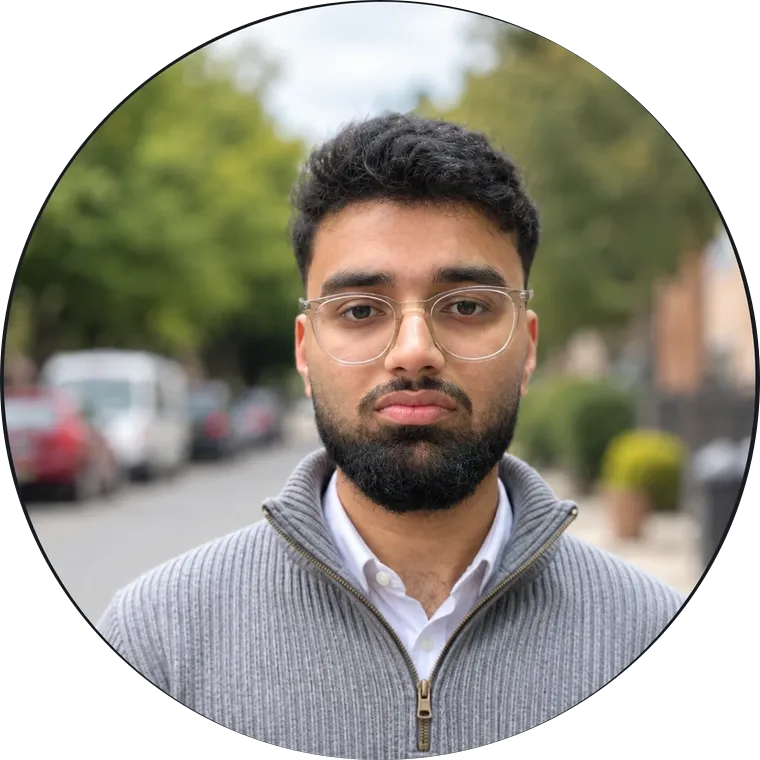
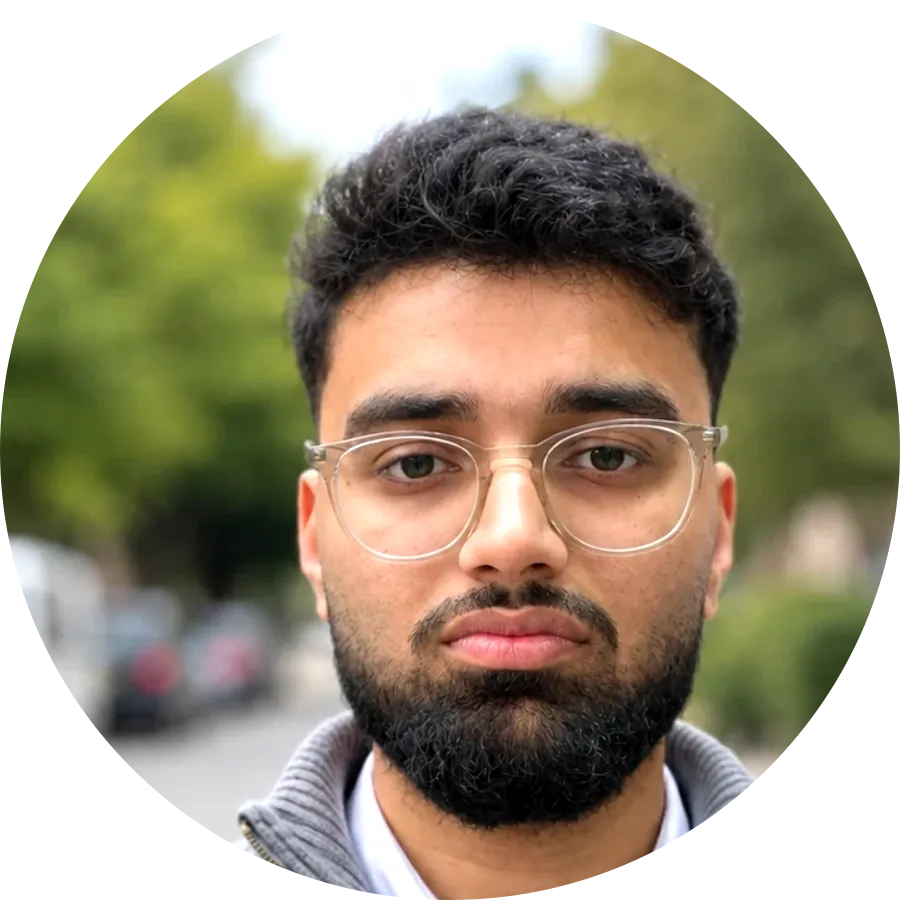
Sharpen the halftone, black ink by day, blue bubbles by night, nav to the top
The portrait is legible now. Three things were costing it:

- the grid pitch was a hard-coded 6px constant, sized for the hero the
  component is demoed in. It is a prop now, defaulting to the same 6 so nothing
  else changes, and this instance runs at 4.
- the crop was the whole circle, so the street, the parked cars and the hedge
  were each being described in dots that could have been describing a face. It
  is tighter and higher, and resampled from 900px rather than 760.
- the box went 300 to 340. Sampled alpha went from about 3.5k to 75k.

Light ink is black, as asked, with the body and muted greys following it off
the same neutral rather than staying green against it. The ground keeps its
warmth — only the ink changed, so the page is still off-white and not a sheet
of paper.

The sent bubble is iMessage blue at night and the page's own black by day.
Blue on a black-on-off-white page would be the only thing on it from another
palette; at night it is what was asked for. White text either way.

The nav is at the top, in the strip with the signature and the clock. The
player moved to sit beside the signature: it used to be absolutely centred on
that strip, which is where the nav now is, and two things centred on the same
strip would have sat on top of each other the moment a track was configured.

Also fixed two more `var(----name)` four-dash variables the registry shipped,
in the blue badge tokens. There are none left.
[…]

diff --git a/app/page.tsx b/app/page.tsx
@@ -62,23 +62,27 @@ export default function Home() {
     <main className="home">
       <div className="home-col">
         <div className="home-strip">
-          {/* The signature, small and still. Not a logo — it is the same hand
-              the intro writes, which is a thing of his rather than a mark
-              invented for the corner. */}
-          <svg
-            className="home-sig"
-            viewBox={SIGNATURE_VIEWBOX}
-            role="img"
-            aria-label="Naman Sharma"
-          >
-            {SIGNATURE_PATHS.map((d, i) => (
-              <path key={i} d={d} />
-            ))}
-          </svg>
-          {/* Centred on the bar. Renders nothing until the file exists, so
-              the slot is simply empty until a track is dropped in. */}
-          <span className="home-strip-centre">
+          {/* Left: the signature, and the player beside it. The player used to
+              be centred on the bar, which is where the nav now is — two things
+              absolutely centred on the same strip would sit on top of each
+              other the moment a track was configured. */}
+          <span className="home-strip-left">
+            <svg
+              className="home-sig"
+              viewBox={SIGNATURE_VIEWBOX}
+              role="img"
+              aria-label="Naman Sharma"
+            >
+              {SIGNATURE_PATHS.map((d, i) => (
+                <path key={i} d={d} />
+              ))}
+            </svg>
             <Player track={TRACK} />
+          </span>
+
+          {/* The nav, at the top. */}
+          <span className="home-strip-centre">
+            <Nav />
           </span>
 
           <Status />
@@ -94,7 +98,8 @@ export default function Home() {
         <div className="home-portrait">
           <HalftoneDots
             src="/me/portrait-cut.png"
-            accent="#183b2b"
+            cell={4}
+            accent="#000000"
             displace
             className="home-portrait-dots"
           />
@@ -129,8 +134,6 @@ export default function Home() {
             has a menu bar and a dock, and the windows drag and resize.
           </p>
         </div>
-
-        <Nav />
 
         <section className="home-section" aria-label="Selected work">
           <p className="home-section-label">Selected work</p>

diff --git a/components/ui/halftone-dots.tsx b/components/ui/halftone-dots.tsx
@@ -23,6 +23,8 @@ const MORPH = 200
 const MORPH_STAGGER = 220
 const MORPH_DIP = 0.5
 
+/* Default grid pitch. Overridable per instance through the `cell` prop: at a
+   small rendered size a 6px cell leaves a whole face as a few dozen dots. */
 const CELL = 6
 const SUP = 4
 const SPILL = 72
@@ -244,6 +246,7 @@ export function HalftoneDots({
   backdrop,
   gradient,
   accent = '#2563eb',
+  cell = CELL,
   displace = false,
   onBurst,
   className,
@@ -253,6 +256,8 @@ export function HalftoneDots({
   backdrop?: string
   gradient?: [string, string]
   accent?: string
+  /** Grid pitch in CSS pixels. Lower is finer, and costs cells squared. */
+  cell?: number
   displace?: boolean
   onBurst?: (presses: readonly number[]) => void
   className?: string
@@ -335,8 +340,8 @@ export function HalftoneDots({
       const boxH = frame_.clientHeight
       const width = boxW + SPILL * 2
       const height = boxH + SPILL * 2
-      const cols = Math.max(1, Math.round(width / CELL))
-      const rows = Math.max(1, Math.round(height / CELL))
+      const cols = Math.max(1, Math.round(width / cell))
+      const rows = Math.max(1, Math.round(height / cell))
       const cw = width / cols
       const ch = height / rows
       const maxR = Math.min(cw, ch) / 2

diff --git a/components/home/home.css b/components/home/home.css
@@ -44,11 +44,35 @@
   margin-bottom: 48px;
 }
 
+.home-strip-left {
+  display: inline-flex;
+  align-items: center;
+  gap: 14px;
+}
+
 .home-strip-centre {
   position: absolute;
   left: 50%;
   top: 50%;
   translate: -50% -50%;
+}
+
+/* At the top now, so it loses the margin it had when it sat under the prose. */
+.home-nav {
+  margin-top: 0;
+}
+
+/* The strip is only as wide as the reading column, and three groups do not fit
+   across a phone. The nav keeps its place; the signature and the clock are the
+   two that can go. */
+@media (max-width: 720px) {
+  .home-strip-centre {
+    position: static;
+    translate: none;
+  }
+  .home-strip {
+    justify-content: space-between;
+  }
 }
 
 /* The signature in the corner, at the size a letterhead would set it. */
@@ -479,7 +503,7 @@
 /* Square, and left-aligned on the column so its edge lines up with the name
    and the prose under it. */
 .home-portrait {
-  width: 300px;
+  width: 340px;
   max-width: 100%;
   aspect-ratio: 1;
   /* No nudge. The component paints 72px outside its own box so dots can burst

diff --git a/app/globals.css b/app/globals.css
@@ -41,8 +41,8 @@
   --tabs-ease: cubic-bezier(0.22, 1, 0.36, 1);
   --ease-exit: cubic-bezier(0.4, 0, 0.6, 1);
   --color-nav-hover: var(--nav-hover);
-  --color-badge-blue-fg: var(----badge-blue-fg);
-  --color-badge-blue-bg: var(----badge-blue-bg);
+  --color-badge-blue-fg: var(--badge-blue-fg);
+  --color-badge-blue-bg: var(--badge-blue-bg);
   @keyframes popover-flip-in {
   from {
     transform: perspective(600px) rotateX(var(--popover-tilt-x, 0deg)) rotateY(var(--popover-tilt-y, 0deg)) scale(0.94);
@@ -345,9 +345,10 @@
   --bg: #fcfdfb;
   --surface: #ffffff;
   --line: #e4e8e3;
-  --fg: #183b2b;
-  --fg-body: #566359;
-  --fg-muted: #8a968c;
+  --fg: #000000;
+  --fg-body: #44474a;
+  --fg-muted: #8b8f92;
+  --blue: #000000;
   --bubble-received: #ebeee9;
   --bubble-received-foreground: #183b2b;
   --nav-hover: oklch(0.945 0 0);
@@ -391,6 +392,7 @@
   --fg: #e6ece7;
   --fg-body: #9aa89d;
   --fg-muted: #6d7a71;
+  --blue: #0a7cff;
   --bubble-received: #232a25;
   --bubble-received-foreground: #e6ece7;
   --nav-hover: var(--muted);

diff --git a/components/home/ParticleName.tsx b/components/home/ParticleName.tsx
@@ -17,7 +17,7 @@ import ParticleText from "@/components/reactbits/ParticleText";
  */
 
 const INK = {
-  light: { color: "#183b2b", highlight: "#4f8f6c" },
+  light: { color: "#000000", highlight: "#4a4a4a" },
   dark: { color: "#e6ece7", highlight: "#7fb398" },
 };
 
